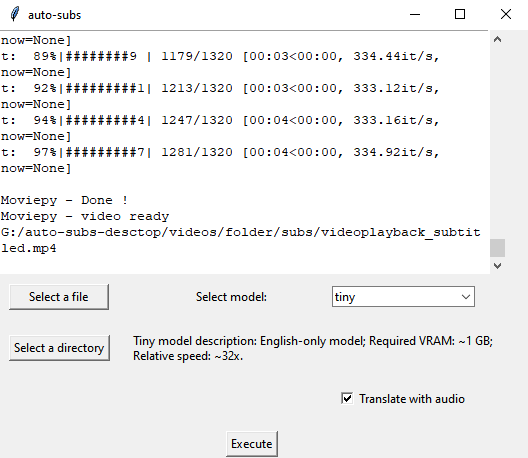
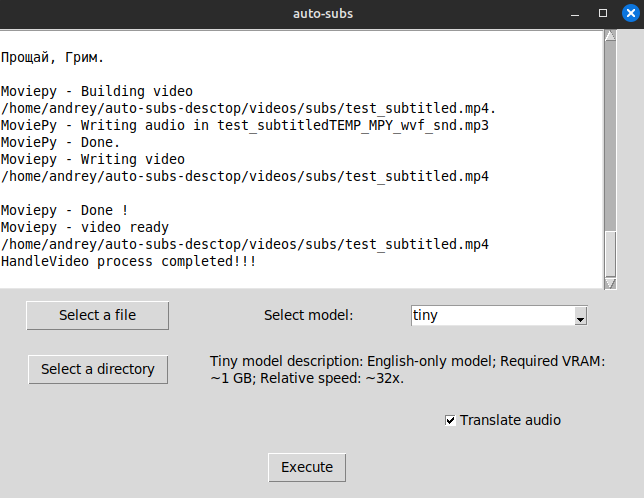
fixed few problems for linux version

diff --git a/main_linux.py b/main_linux.py
@@ -17,15 +17,18 @@ class ConsoleRedirector:
         self.text_widget.insert(tk.END, message)
         self.text_widget.see(tk.END)
 
+    def flush(self):
+        pass
+
 
 class FileSelectorApp:
     def __init__(self, root):
         self.root = root
         self.root.title("auto-subs")
-        self.root.geometry("640x480")
+        self.root.geometry("650x470")
 
         self.text_widget = scrolledtext.ScrolledText(
-            self.root, wrap=tk.WORD, width=70, height=20)
+            self.root, wrap=tk.WORD, width=75, height=15)
         self.text_widget.grid(row=0, column=0, columnspan=4, sticky="nsew")
 
         console_redirector = ConsoleRedirector(self.text_widget)
@@ -34,6 +37,7 @@ class FileSelectorApp:
         self.file_path = None
         self.directory_path = None
         self.model_var = tk.StringVar(value='tiny')
+        self.translate_var = tk.BooleanVar(value=False)
 
         self.file_button = tk.Button(
             self.root, text="     Select a file     ", command=self.choose_file)
@@ -51,23 +55,25 @@ class FileSelectorApp:
         self.model_combobox.grid(row=1, column=3, padx=10, pady=10)
 
         self.model_description_label = tk.Label(self.root, text="", wraplength=400, justify=tk.LEFT)
-        self.model_description_label.grid(row=2, column=1, columnspan=4, padx=10, pady=10)
+        self.model_description_label.grid(row=2, column=1, columnspan=3, padx=10, pady=10)
+
+        self.translate_checkbutton = tk.Checkbutton(
+            self.root, text="Translate audio", variable=self.translate_var)
+        self.translate_checkbutton.grid(row=3, column=3, columnspan=2, pady=10)
 
         self.execute_button = tk.Button(
             self.root, text="Execute", command=self.execute)
-        self.execute_button.grid(row=3, column=0, columnspan=4, pady=10)
+        self.execute_button.grid(row=7, column=0, columnspan=4, pady=10)
 
         self.model_descriptions = {
             'tiny': 'Tiny model description: English-only model; Required VRAM: ~1 GB; Relative speed: ~32x.',
             'base': 'Base model description: English-only model; Required VRAM: ~1 GB; Relative speed: ~16x.',
-            'small': 'Small model description: English-only model; Required VRAM: ~2 GB GB; Relative speed: ~6x.',
+            'small': 'Small model description: English-only model; Required VRAM: ~2 GB; Relative speed: ~6x.',
             'medium': 'Medium model description: English-only model; Required VRAM: ~5 GB; Relative speed: ~2x.',
             'large': 'Large model description: Any popular language; Required VRAM: ~10 GB; Relative speed: 1x.',
         }
-        
 
         self.update_model_description(None)
-
         self.model_combobox.bind("<<ComboboxSelected>>", self.update_model_description)
 
     def update_model_description(self, event):
@@ -76,29 +82,30 @@ class FileSelectorApp:
         self.model_description_label.config(text=description)
 
     def execute(self):
-        base_dir = os.path.abspath(os.path.dirname(__file__))
-        base_dir = re.sub(r'\\', '/', base_dir)
-        os.environ['PROJECT_ROOT'] = base_dir
+        try:
+            base_dir = os.path.abspath(os.path.dirname(__file__))
+            base_dir = re.sub(r'\\', '/', base_dir)
+            os.environ['PROJECT_ROOT'] = base_dir
 
-        if not(os.path.exists(os.path.join(base_dir, 'src/subtitles/model/')) and os.path.isdir(os.path.join(base_dir, 'src/subtitles/model/'))):
-            # print('not exist!!!')
-            from pathlib import Path
+            if not(os.path.exists(os.path.join(base_dir, 'src/subtitles/model/')) and os.path.isdir(os.path.join(base_dir, 'src/subtitles/model/'))):
+                from pathlib import Path
+                from transformers import AutoTokenizer, AutoModelForSeq2SeqLM
 
-            from transformers import AutoTokenizer, AutoModelForSeq2SeqLM
+                model_name = "Helsinki-NLP/opus-mt-en-ru"
 
-            model_name = "Helsinki-NLP/opus-mt-en-ru"
+                tokenizer = AutoTokenizer.from_pretrained(model_name)
+                model = AutoModelForSeq2SeqLM.from_pretrained(model_name)
 
-            tokenizer = AutoTokenizer.from_pretrained(model_name)
-            model = AutoModelForSeq2SeqLM.from_pretrained(model_name)
+                tokenizer.save_pretrained(Path.cwd() / 'src' / 'subtitles' / 'model' / 'en-ru-local')
+                model.save_pretrained(Path.cwd() / 'src' / 'subtitles' / 'model' / 'en-ru-local')
 
-            tokenizer.save_pretrained(Path.cwd() / 'src' / 'subtitles' / 'model' / 'en-ru-local')
-            model.save_pretrained(Path.cwd() / 'src' / 'subtitles' / 'model' / 'en-ru-local')
+            if os.path.exists('./bin') and os.path.isdir('./bin'):
+                shutil.rmtree('./bin')
 
-        if os.path.exists('./bin') and os.path.isdir('./bin'):
-            shutil.rmtree('./bin')
-
-        os.mkdir('./bin')
-        Thread(target=self.process_file, daemon=True).start()
+            os.mkdir('./bin')
+            Thread(target=self.process_file, daemon=True).start()
+        except Exception as e:
+            print(f"Error during initialization: {e}")
 
     def choose_file(self):
         self.file_path = filedialog.askopenfilename()
@@ -130,13 +137,12 @@ class FileSelectorApp:
     def process_file(self):
         if self.file_path and self.directory_path:
             try:
-                # base_dir = os.path.abspath(os.path.dirname(__file__))
-                # base_dir = re.sub(r'\\', '/', base_dir)
-                # os.environ['PROJECT_ROOT'] = base_dir
                 base_dir = os.environ.get('PROJECT_ROOT')
 
                 model = self.model_var.get()
+                translate = self.translate_var.get()
                 print('You chose model: ', model)
+                print('Translate audio: ', translate)
 
                 process_whisper = subprocess.Popen(
                     f'cd {base_dir}/bin && whisper {self.file_path} --model {model} --language en',
@@ -149,27 +155,25 @@ class FileSelectorApp:
                 for line in process_whisper.stdout:
                     print(line.strip())
 
-                process_handle_video = subprocess.Popen(
-                    ['python', '-c', f'from src.subtitles.handle_video import HandleVideo; HandleVideo.handle_video("{self.file_path.split("/")[-1]}", "{self.file_path}", "{self.directory_path}")'],
-                    shell=True,
-                    stdout=subprocess.PIPE,
-                    stderr=subprocess.STDOUT,
-                    text=True
-                )
-
-                for line in process_handle_video.stdout:
-                    print(line.strip())
-
                 process_whisper.wait()
-                process_handle_video.wait()
+                print("whisper process completed.")
+
+                from src.subtitles.handle_video import HandleVideo
+                HandleVideo.handle_video(
+                self.file_path.split("/")[-1], 
+                self.file_path, 
+                self.directory_path, 
+                self.translate_var.get()
+            )
+
+                print("HandleVideo process completed!!!")
 
             except Exception as e:
                 print(f"An error has occurred: {e}")
 
             else:
                 self.clear_bin_directory('./bin')
-                # os.rmdir('./bin')
-                pass
+                
 
         else:
             print("You must select the file and directory to continue processing.")
@@ -180,7 +184,8 @@ if __name__ == "__main__":
     #     shutil.rmtree('./bin')
     root = tk.Tk()
     app = FileSelectorApp(root)
-    print('There should be no spaces in the title of the video\n')
+    print('You must not choose file.mp4 which has path with spaces.\nExample: "/home/user/auto-subs-desctop/videos/test.mp4" - correct path,\n"/home/user/auto subs desktop/videos/test test.mp4" - wrong path\n')
     print('If an error was received while the program was running, it is recommended to restart the application and start processing again\n')
     root.mainloop()
-    
+
+

diff --git a/main_windows.py b/main_windows.py
@@ -9,6 +9,15 @@ import subprocess
 from threading import Thread
 
 
+# class ConsoleRedirector:
+#     def __init__(self, text_widget):
+#         self.text_widget = text_widget
+
+#     def write(self, message):
+#         self.text_widget.insert(tk.END, message)
+#         self.text_widget.see(tk.END)
+
+
 class ConsoleRedirector:
     def __init__(self, text_widget):
         self.text_widget = text_widget
@@ -17,15 +26,18 @@ class ConsoleRedirector:
         self.text_widget.insert(tk.END, message)
         self.text_widget.see(tk.END)
 
+    def flush(self):
+        pass
+
 
 class FileSelectorApp:
     def __init__(self, root):
         self.root = root
         self.root.title("auto-subs")
-        self.root.geometry("530x430")
+        self.root.geometry("650x470")
 
         self.text_widget = scrolledtext.ScrolledText(
-            self.root, wrap=tk.WORD, width=50, height=15)
+            self.root, wrap=tk.WORD, width=75, height=15)
         self.text_widget.grid(row=0, column=0, columnspan=4, sticky="nsew")
 
         console_redirector = ConsoleRedirector(self.text_widget)
@@ -55,7 +67,7 @@ class FileSelectorApp:
         self.model_description_label.grid(row=2, column=1, columnspan=3, padx=10, pady=10)
 
         self.translate_checkbutton = tk.Checkbutton(
-            self.root, text="Translate with audio", variable=self.translate_var)
+            self.root, text="Translate audio", variable=self.translate_var)
         self.translate_checkbutton.grid(row=3, column=3, columnspan=2, pady=10)
 
         self.execute_button = tk.Button(
@@ -136,7 +148,7 @@ class FileSelectorApp:
                 model = self.model_var.get()
                 translate = self.translate_var.get()
                 print('You chose model: ', model)
-                print('Translate and Voice Over: ', translate)
+                print('Translate audio: ', translate)
 
                 process_whisper = subprocess.Popen(
                     f'cd {base_dir}/bin && whisper {self.file_path} --model {model} --language en',
@@ -182,3 +194,6 @@ if __name__ == "__main__":
     print('There should be no spaces in the title of the video\n')
     print('If an error was received while the program was running, it is recommended to restart the application and start processing again\n')
     root.mainloop()
+
+
+

diff --git a/src/subtitles/handle_video.py b/src/subtitles/handle_video.py
@@ -31,6 +31,7 @@ class HandleVideo():
 
     @staticmethod
     def handle_video(name_of_video, path_for_video, path_for_new_video, translate_var=None):
+        
         try:
             mp4filename = name_of_video
             srtfilename = os.environ.get('PROJECT_ROOT') + \
@@ -49,7 +50,7 @@ class HandleVideo():
             print('MyLocalTranslator ', e)
 
         new_audio_filename = None
-        if translate_var == 'True':
+        if translate_var == 'True' or translate_var == True:
 
             # try:
             #     new_audio_filename, audio_clips = MakeAudioRecord().perform_audio_creation(
@@ -59,9 +60,7 @@ class HandleVideo():
             # except Exception as e:
             #     print('MakeAudioRecord ', e)
         
-            new_audio_filename, audio_clips = MakeAudioRecord().perform_audio_creation(
-                        subtitles=subtitles, path_of_audio='bin', new_speed_for_audio=1.4, new_volume_for_audio=6.0,
-                        )
+            new_audio_filename, audio_clips = MakeAudioRecord().perform_audio_creation(subtitles=subtitles, path_of_audio='bin', new_speed_for_audio=1.6, new_volume_for_audio=6.0,)
 
         # try:
         #     PutSubs(mp4filename, srtfilename, path_for_video,
@@ -73,7 +72,7 @@ class HandleVideo():
                     path_for_new_video, new_audio_filename).generate_video_with_subtitles()
         
 
-        if translate_var == 'True':
+        if translate_var == 'True' or translate_var == True:
             for audio_clip in audio_clips:
                         audio_clip.close()
         

diff --git a/src/subtitles/audio_record.py b/src/subtitles/audio_record.py
@@ -7,7 +7,6 @@ from abc import ABC, abstractmethod
 from moviepy.editor import VideoFileClip, CompositeAudioClip, AudioFileClip
 import moviepy.audio.fx.all as afx
 from pydub import AudioSegment
-import librosa
 import soundfile as sf
 
 

diff --git a/README.md b/README.md
@@ -1,6 +1,6 @@
 # program automatic makes subtitles for video in many languages
 
-First you need to install imagemagick, ffmpeg, python 3.11. 
+First you need to install imagemagick, ffmpeg, python 3.11 for Windows, python 3.10 for linux. If you get some errors related to ffmpeg you'll need to fix them yourself.
 
 Before install requirements it is better to make python virtualenv.
 
@@ -12,13 +12,32 @@ pip install -r requirements_for_windows.txt;
 ```
 
 for linux
+
+install virtual environment
 ```
-python3.11 -m venv venv;
-source venv/bin/activate;
-pip3 install -r requirements.txt;
+python3 -m venv venv;
 ```
 
-After installing requirements you need to to choose file.mp4 which you want to translate and directory where you want to save your new video with subtitles. Then choose size of model for recognize audio which you want. After that you need to press button 'execute'. Then the program should start work.
+or
+```
+python3.10 -m venv venv;
+```
+activate virtual environment
+```
+. ./venv/bin/activate;
+```
+
+install requirements for linux for execution with amdgpu
+```
+pip3 install -r requirements_gpu.txt;
+```
+
+install requirements for linux for execution with cpu
+```
+pip3 install -r requirements_cpu.txt;
+```
+
+After installing requirements you need to to choose file.mp4 which you want to translate and directory where you want to save your new video with subtitles. Then choose size of model for recognize audio which you want. Also you can choose "Translate audio" if you want to get video with new translated audio. After that you need to press button 'execute'. Then the program should start work.
 
 ![Alt text](./images/image.png)
 
